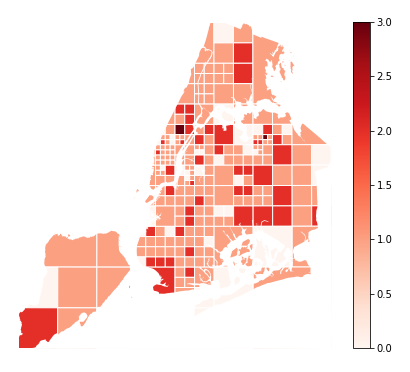
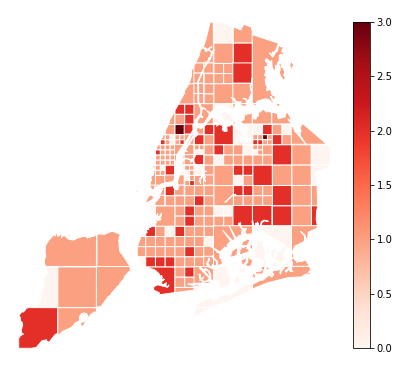
Implement cleaner clipping operation. (#118)

diff --git a/geoplot/geoplot.py b/geoplot/geoplot.py
@@ -251,7 +251,29 @@ class LegendMixin:
 class ClipMixin:
     """
     Class container for clip-setter code shared across all plots that support clip.
+
+    Note that there are two different routines for clipping a plot:
+    * Drawing an inverted polyplot as the top layer. Implemented in `paint_clip`. Advantage is
+      that it is fast, disadvantage is that the resulting plot can't be applied to a webmap.
+    * Intersecting each geometry with the unary union of the clip geometries. This is a slower
+      but more broadly compatible process. It's also quite fast if the clip geometry used is
+      relatively simple, but this requires conscious effort the user (we can't simplify
+      automatically unfortunately).
+
+    KDEPlot uses the first method because it relies on `seaborn` underneath, and there is no way
+    to clip an existing axis painter (that I am aware of). All other plots use the second method.
     """
+    def set_clip(self, gdf):
+        clip = self.kwargs.pop('clip')
+        clip = _to_geoseries(gdf, clip)
+
+        if clip is not None:
+            clip_shp = clip.unary_union
+            gdf = gdf.assign(
+                geometry=gdf.geometry.map(lambda geom: clip_shp.intersection(geom))
+            )
+        return gdf
+
     @staticmethod
     def _get_clip(extent, clip):
         xmin, ymin, xmax, ymax = extent
@@ -918,7 +940,7 @@ def quadtree(
     df, projection=None, clip=None,
     hue=None, cmap='viridis', k=5, scheme=None,
     nmax=None, nmin=None, nsig=0, agg=np.mean,
-    legend=False, legend_kwargs=None,
+    legend=False, legend_kwargs=None, legend_values=None, legend_labels=None,
     extent=None, figsize=(8, 6), ax=None, **kwargs
 ):
     """
@@ -1006,15 +1028,20 @@ def quadtree(
 
     .. image:: ../figures/quadtree/quadtree-initial.png
 
-    Use ``clip`` to clip the result to surrounding geometry. Keyword arguments that are not part
-    of the ``geoplot`` API are passed to the underlying ``matplotlib.pyplot.scatter`` instance,
-    which can be used to customize the appearance of the plot.
+    Use ``clip`` to clip the result to surrounding geometry.  Note that if the clip geometry is
+    complicated, this operation will take a long time; consider simplifying complex geometries with
+    ``simplify`` to speed it up.
+
+    Keyword arguments that are not part of the ``geoplot`` API are passed to the underlying
+    `matplotlib.pyplot.scatter instance 
+    <https://matplotlib.org/3.1.0/api/_as_gen/matplotlib.pyplot.scatter.html>`_, which can be used
+    to customize the appearance of the plot.
 
     .. code-block:: python
 
         gplt.quadtree(
             collisions, nmax=1,
-            projection=gcrs.AlbersEqualArea(), clip=boroughs,
+            projection=gcrs.AlbersEqualArea(), clip=boroughs.simplify(0.001),
             facecolor='lightgray', edgecolor='white'
         )
     
@@ -1087,27 +1114,31 @@ def quadtree(
             self.compute_quadtree()
             self.set_hue_values(color_kwarg='facecolor', default_color='None')
             self.paint_legend(supports_hue=True, supports_scale=False)
-            self.paint_clip()
 
         def draw(self):
             ax = self.ax
             if len(self.df.geometry) == 0:
                 return ax
 
-            for p, color in zip(self.partitions, self.colors):
+            geoms = []
+            for p in self.partitions:
                 xmin, xmax, ymin, ymax = p.bounds
                 rect = shapely.geometry.Polygon(
                     [(xmin, ymin), (xmin, ymax), (xmax, ymax), (xmax, ymin)]
                 )
+                geoms.append(rect)
+            geoms = gpd.GeoDataFrame(geometry=geoms)
+            geoms = self.set_clip(geoms)
 
+            for geom, color in zip(geoms.geometry, self.colors):
                 if projection:
-                    feature = ShapelyFeature([rect], ccrs.PlateCarree())
+                    feature = ShapelyFeature([geom], ccrs.PlateCarree())
                     ax.add_feature(
                         feature, facecolor=color, **self.kwargs
                     )
                 else:
                     feature = descartes.PolygonPatch(
-                        rect, facecolor=color, **self.kwargs
+                        geom, facecolor=color, **self.kwargs
                     )
                     ax.add_patch(feature)
 
@@ -1117,8 +1148,10 @@ def quadtree(
         df, projection=projection,
         clip=clip,
         hue=hue, scheme=scheme, k=k, cmap=cmap,
-        nmax=nmax, nmin=nmin, nsig=nsig,
-        agg=agg, legend=legend, legend_kwargs=legend_kwargs, extent=extent, figsize=figsize, ax=ax,
+        nmax=nmax, nmin=nmin, nsig=nsig, agg=agg,
+        legend=legend, legend_values=legend_values, legend_labels=legend_labels,
+        legend_kwargs=legend_kwargs,
+        extent=extent, figsize=figsize, ax=ax,
         **kwargs
     )
     return plot.draw()
@@ -1835,7 +1868,6 @@ def voronoi(
             super().__init__(df, **kwargs)
             self.set_hue_values(color_kwarg='facecolor', default_color='None')
             self.paint_legend(supports_hue=True, supports_scale=False)
-            self.paint_clip()
 
         def draw(self):
             ax = self.ax
@@ -1843,12 +1875,15 @@ def voronoi(
                 return ax
 
             geoms = build_voronoi_polygons(self.df)
+            self.df = self.df.assign(
+                geometry=self.set_clip(gpd.GeoDataFrame(geometry=geoms))
+            )
             if self.projection:
-                for color, geom in zip(self.colors, geoms):
+                for color, geom in zip(self.colors, self.df.geometry):
                     features = ShapelyFeature([geom], ccrs.PlateCarree())
                     ax.add_feature(features, facecolor=color, edgecolor=edgecolor, **self.kwargs)
             else:
-                for color, geom in zip(plot.colors, geoms):
+                for color, geom in zip(self.colors, self.df.geometry):
                     feature = descartes.PolygonPatch(
                         geom, facecolor=color, edgecolor=edgecolor, **self.kwargs
                     )
